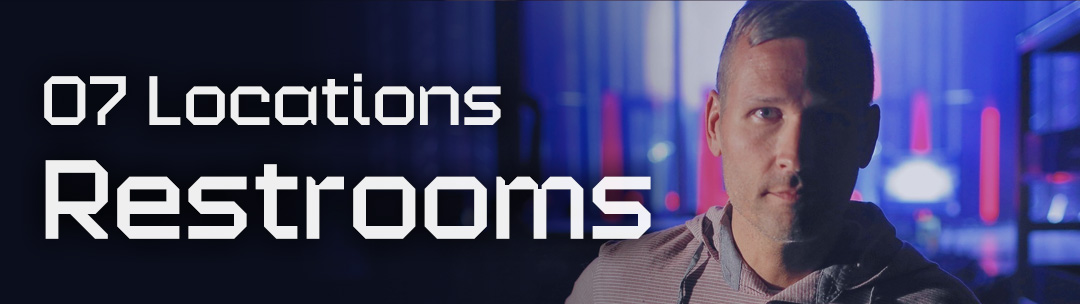
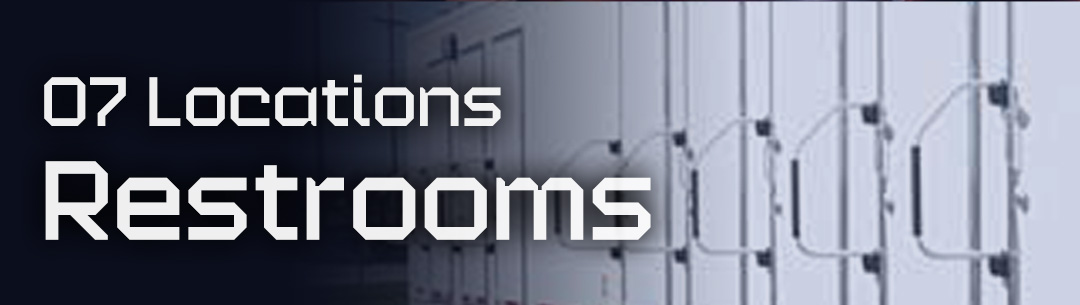
first screen end

diff --git a/index.ios.js b/index.ios.js
@@ -49,15 +49,14 @@ class Main extends React.Component{
             <FitImage 
               style={styles.logo}
               source={{uri: 'http://defiant-nation.surge.sh/powered_by_thumbaholics.png'}}/> 
-
             </View>
           
 
           <TouchableHighlight onPress={this.navFirstAid.bind(this)}>
             <View>
               <FitImage
-                style={styles.fird_aid}
-                source={{uri: 'http://pink-vessel.surge.sh/first_aid.jpg'}}/>
+                style={styles.first_aid}
+                source={{uri: 'http://finicky-fruit.surge.sh/first_aid.jpg'}}/>
             </View>
           </TouchableHighlight>
 
@@ -73,7 +72,7 @@ class Main extends React.Component{
             <View>
               <FitImage
                 style={styles.restrooms}
-                source={{uri: 'http://materialistic-sugar.surge.sh/restrooms.jpg'}}/>
+                source={{uri: 'http://finicky-fruit.surge.sh/restrooms.jpg'}}/>
             </View>
           </TouchableHighlight>
 
@@ -81,7 +80,7 @@ class Main extends React.Component{
             <View>
               <FitImage
                 style={styles.stages}
-                source={{uri: 'http://materialistic-sugar.surge.sh/stages.jpg'}}/>
+                source={{uri: 'http://nutty-room.surge.sh/stages.jpg'}}/>
             </View>
           </TouchableHighlight>
 
@@ -89,7 +88,7 @@ class Main extends React.Component{
             <View>
               <FitImage
                 style={styles.water}
-                source={{uri: 'http://materialistic-sugar.surge.sh/water.jpg'}}/>
+                source={{uri: 'http://jealous-form.surge.sh/water.jpg'}}/>
             </View>
           </TouchableHighlight>
 
@@ -97,7 +96,7 @@ class Main extends React.Component{
             <View>
               <FitImage
                 style={styles.transportation}
-                source={{uri: 'http://materialistic-sugar.surge.sh/transpo.jpg'}}/>
+                source={{uri: 'http://finicky-fruit.surge.sh/transpo.jpg'}}/>
             </View>
           </TouchableHighlight>
         </ScrollView>
@@ -111,20 +110,23 @@ class FirstAid extends React.Component{
     this.props.navigator.pop({
       id: 'first_aid_page'
     })
-      console.log("clicked again!")
   }
   render() {
     return (
       <View style={styles.container}>
+
+        <TouchableHighlight onPress={this.navMain.bind(this)}>
+          <View style={styles.goback_container}>
+            <FitImage
+              style={styles.goback}
+              source={{uri: 'http://unruly-process.surge.sh/go_back.png'}}/>
+          </View>
+        </TouchableHighlight>
+
         <Text style={styles.second_page}>
           First Aid
         </Text>
 
-        <TouchableHighlight onPress={this.navMain.bind(this)}>
-          <Text style={styles.button}>
-             Go back to page one!
-          </Text>
-        </TouchableHighlight>
       </View>
     )
   }
@@ -139,15 +141,19 @@ class Food extends React.Component{
   render() {
     return (
       <View style={styles.container}>
+        
+        <TouchableHighlight onPress={this.navMain.bind(this)}>
+          <View style={styles.goback_container}>
+            <FitImage
+              style={styles.goback}
+              source={{uri: 'http://unruly-process.surge.sh/go_back.png'}}/>
+          </View>
+        </TouchableHighlight>
+
         <Text style={styles.second_page}>
           Food & Drinks
         </Text>
 
-        <TouchableHighlight onPress={this.navMain.bind(this)}>
-          <Text style={styles.button}>
-             Go back to page one!
-          </Text>
-        </TouchableHighlight>
       </View>
     )
   }
@@ -162,15 +168,19 @@ class Restrooms extends React.Component{
   render() {
     return (
       <View style={styles.container}>
+       
+        <TouchableHighlight onPress={this.navMain.bind(this)}>
+          <View style={styles.goback_container}>
+            <FitImage
+              style={styles.goback}
+              source={{uri: 'http://unruly-process.surge.sh/go_back.png'}}/>
+          </View>
+        </TouchableHighlight>
+
         <Text style={styles.second_page}>
           Restrooms
         </Text>
 
-        <TouchableHighlight onPress={this.navMain.bind(this)}>
-          <Text style={styles.button}>
-             Go back to page one!
-          </Text>
-        </TouchableHighlight>
       </View>
     )
   }
@@ -185,15 +195,19 @@ class Stages extends React.Component{
   render() {
     return (
       <View style={styles.container}>
+        
+        <TouchableHighlight onPress={this.navMain.bind(this)}>
+          <View style={styles.goback_container}>
+            <FitImage
+              style={styles.goback}
+              source={{uri: 'http://unruly-process.surge.sh/go_back.png'}}/>
+          </View>
+        </TouchableHighlight>
+
         <Text style={styles.second_page}>
           Stages
         </Text>
 
-        <TouchableHighlight onPress={this.navMain.bind(this)}>
-          <Text style={styles.button}>
-             Go back to page one!
-          </Text>
-        </TouchableHighlight>
       </View>
     )
   }
@@ -208,15 +222,19 @@ class Water extends React.Component{
   render() {
     return (
       <View style={styles.container}>
+        
+        <TouchableHighlight onPress={this.navMain.bind(this)}>
+          <View style={styles.goback_container}>
+            <FitImage
+              style={styles.goback}
+              source={{uri: 'http://unruly-process.surge.sh/go_back.png'}}/>
+          </View>
+        </TouchableHighlight>
+
         <Text style={styles.second_page}>
           Free Water
         </Text>
 
-        <TouchableHighlight onPress={this.navMain.bind(this)}>
-          <Text style={styles.button}>
-             Go back to page one!
-          </Text>
-        </TouchableHighlight>
       </View>
     )
   }
@@ -231,15 +249,19 @@ class Transportation extends React.Component{
   render() {
     return (
       <View style={styles.container}>
+        
+        <TouchableHighlight onPress={this.navMain.bind(this)}>
+          <View style={styles.goback_container}>
+            <FitImage
+              style={styles.goback}
+              source={{uri: 'http://unruly-process.surge.sh/go_back.png'}}/>
+          </View>
+        </TouchableHighlight>
+        
         <Text style={styles.second_page}>
           Transportation
         </Text>
 
-        <TouchableHighlight onPress={this.navMain.bind(this)}>
-          <Text style={styles.button}>
-             Go back to page one!
-          </Text>
-        </TouchableHighlight>
       </View>
     )
   }
@@ -309,8 +331,14 @@ const styles = StyleSheet.create({
     alignItems: 'center',
     padding: 10
   },
-  goto_firstaid: {
-
+  goback_container: {
+    paddingLeft: 20,
+    paddingRight: 20,
+    paddingTop: 10,
+    paddingBottom: 10,
+  },
+  goback: {
+    // width: 300
   }
 
 })
